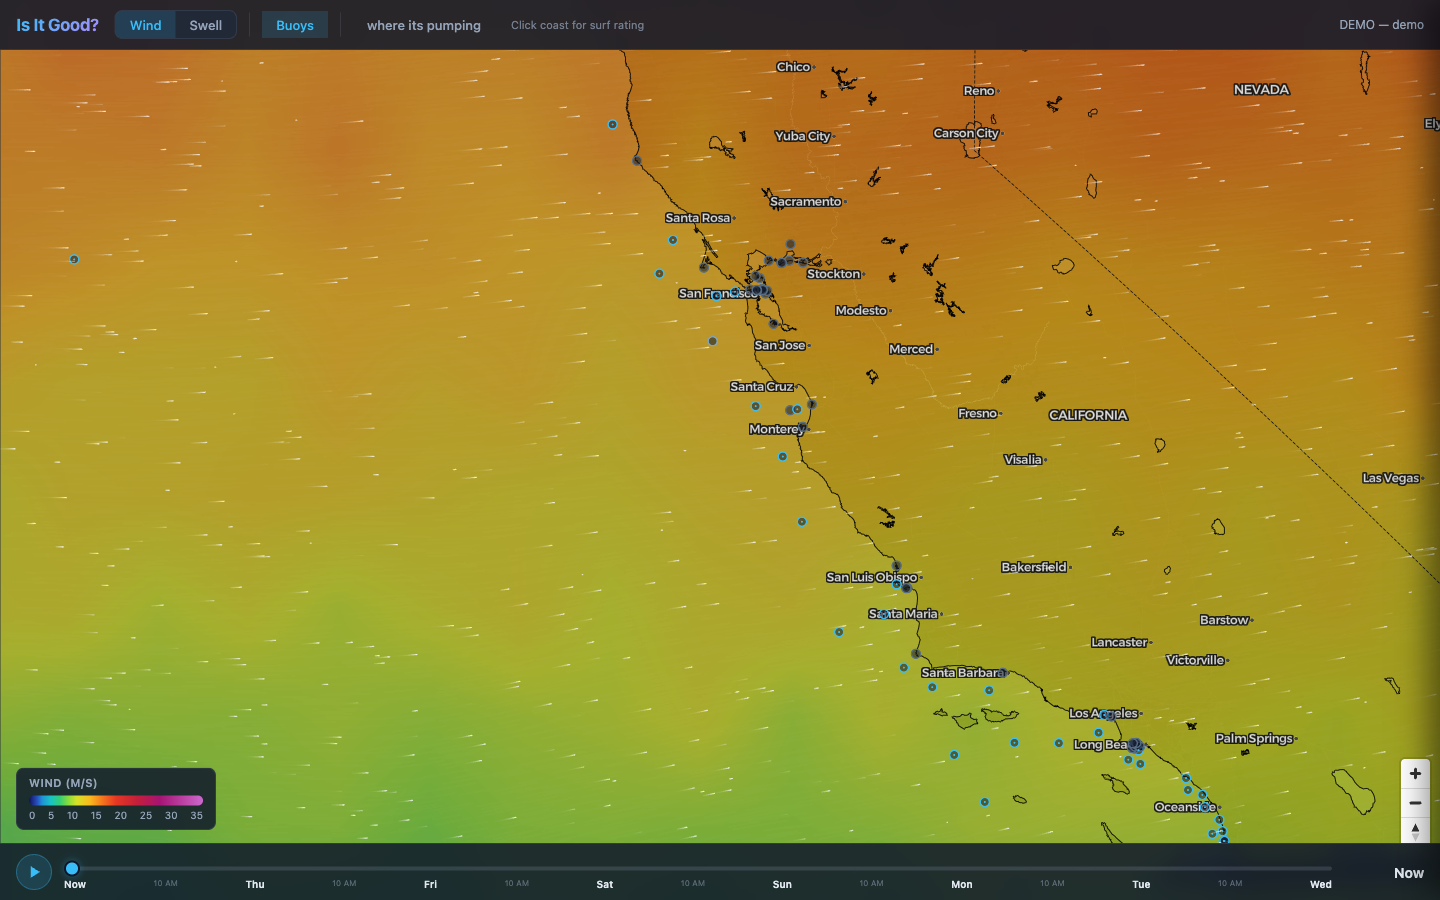
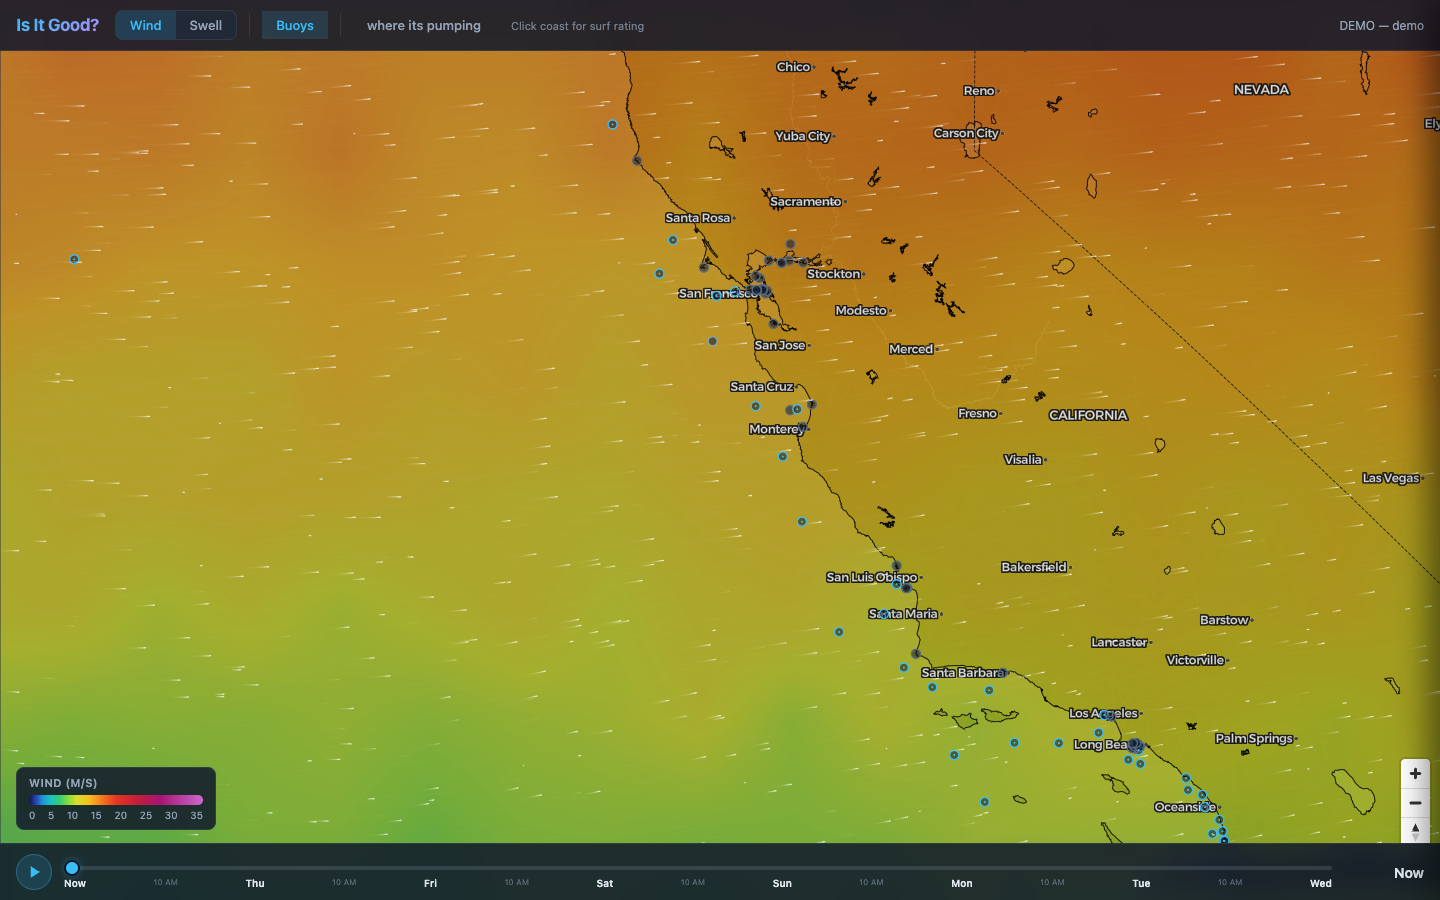
docs: fork report, verify script, and final screenshots
Isolated headless-Chrome verify script (the shared MCP browser was
contested by a concurrent agent), refreshed screenshots after spectrum
label polish, and the full fork report with NDBC research + CORS
findings and caching strategy.

diff --git a/FORK-REPORT.md b/FORK-REPORT.md
@@ -1,0 +1,125 @@
+# Fork report: buoys + swell spectrum (`fork/buoys-spectrum`)
+
+NDBC buoys on the map with live observations, plus a Surfline-style swell
+spectrum (energy by period, with direction) for buoys that report spectral
+data.
+
+## What changed
+
+**Backend (shared parser + 3 endpoints)**
+- `api/_lib/ndbc.mjs` — all NDBC fetch/parse logic in one module, used by both
+  the Vercel functions and local Express. Parses stdmet (`.txt`), spectral
+  summary (`.spec`), raw spectral density (`.data_spec`), per-frequency
+  direction (`.swdir`), `activestations.xml`, and the realtime2 Apache
+  directory index. `'MM'`/`'N/A'`/`999` sentinels → `null` throughout.
+- `api/buoys/stations.mjs` — station list `{id, name, lat, lng, hasWave,
+  hasSpectral}` built by joining `activestations.xml` (names/coords) with the
+  realtime2 directory index (which feeds exist + when they last updated).
+  Filtered to stations whose feed updated in the last 7 days (~900 stations);
+  DART tsunami stations excluded. `Cache-Control: s-maxage=86400,
+  stale-while-revalidate=86400`.
+- `api/buoys/obs.mjs?station=X` — latest stdmet merged with the `.spec`
+  summary. Wave fields ride 30–60 min rows between 10-min met rows, so the
+  parser looks back ≤3 h for the freshest row that actually has them (each
+  group carries its own timestamp). `s-maxage=600`.
+- `api/buoys/spectrum.mjs?station=X` — newest `.data_spec` row merged with
+  `.swdir` (alpha1 mean direction) by frequency bin:
+  `{time, sepFreq, bins: [{freq, period, energy, dir|null}]}`. `s-maxage=1800`.
+- `server.js` — mounts the same `route()`-wrapped handlers at
+  `/api/buoys/*` (they're plain `(req,res)` functions, Express-compatible),
+  and defaults `NDBC_FIXTURE_DIR` to the test fixtures so local dev works
+  offline. Live NDBC is always tried first; fixtures are only the fallback
+  (`NDBC_OFFLINE=1` forces them).
+
+**Frontend**
+- `public/js/buoys.js` — new component. "Buoys" toggle (persists in
+  localStorage; **station list is fetched only the first time it's enabled**,
+  so the default load is untouched). Stations render through one geojson
+  source + two circle layers (no DOM markers), zoom-gated to z ≥ 4: hollow
+  dark-filled rings — bright `#38bdf8` ring + center dot for spectral buoys,
+  dimmer rings for wave-only / met-only stations. Click → buoy panel (reuses
+  the rating-panel shell/visual language): station name, NDBC id, obs age,
+  WVHT/DPD/MWD hero row (ft/s/cardinal + travel arrow), wind/water/air/
+  pressure/avg-period rows, swell-partition table (swell vs wind sea from
+  `.spec`, with the STEEPNESS tag), and for spectral stations an inline-SVG
+  spectrum: log-period x-axis (25s→4s), smoothed filled area, dominant-period
+  marker, swell|wind-sea separation line at NDBC's `sepFreq`, and a
+  direction-arrow ribbon (arrows point where each band is heading, weighted
+  by energy). No chart libraries.
+- `app.js` — map clicks on a buoy no longer fall through to the rating panel
+  (`buoyFeatureAt`); opening one right-hand panel closes the other.
+- `index.html`, `css/style.css` — toggle button, panel markup, `bp-*` styles.
+
+**Tests** — `api/_lib/test/ndbc.test.mjs`: 19 tests over real downloaded
+fixtures (46042 Monterey, 46026 San Francisco) plus synthetic edge cases
+(missing-value merge, lookback expiry, 999 sentinel, stale-station filter,
+station-id validation). `npm run test:api`: **46/46 pass**.
+
+## NDBC / CDIP research findings
+
+- **CORS reality**: `www.ndbc.noaa.gov` (CloudFront + Apache) sends **no
+  `Access-Control-Allow-Origin` header** on `/data/realtime2/*` or
+  `/activestations.xml` (verified via `curl -sI` July 2026). Browser access is
+  impossible; a server-side proxy is mandatory. NDBC's own cache headers are
+  `max-age=600` on realtime2 files, `max-age=60` on activestations.xml.
+- **URL patterns** (all confirmed live):
+  `https://www.ndbc.noaa.gov/data/realtime2/<ID>.{txt,spec,data_spec,swdir,swdir2,swr1,swr2}`
+  and `https://www.ndbc.noaa.gov/activestations.xml` (1351 stations, has
+  lat/lon/name but **no wave-capability flag**). The realtime2 **directory
+  index** turned out to be the best capability source: 944 stations with
+  `.txt`, 251 with `.spec`, 175 with `.data_spec`, and per-file last-modified
+  times that double as a "recently reporting" filter.
+- **Formats**: `.txt`/`.spec` are whitespace tables with `MM` missing values;
+  `.data_spec` rows are `sepFreq` + `energy (freq)` pairs; `.swdir` is
+  `alpha1 (freq)` pairs with `999.0` missing. Rows are newest-first.
+- **CDIP**: not used. CDIP's THREDDS/netCDF JSON access is nicer for full 2D
+  spectra, but most surf-relevant CDIP buoys are cross-listed in NDBC's
+  realtime2 feed (e.g. 46042 *is* spectral there), so NDBC-only keeps v1 to
+  one source, one parser, one proxy. CDIP remains the obvious v2 upgrade for
+  true directional 2D spectra.
+
+## Caching strategy
+
+| Endpoint | CDN (`s-maxage` / `stale-while-revalidate`) | In-process TTL |
+|---|---|---|
+| `/api/buoys/stations` | 86400 / 86400 | 1 h |
+| `/api/buoys/obs` | 600 / 600 | 5 min |
+| `/api/buoys/spectrum` | 1800 / 1800 | 15 min |
+
+Vercel's CDN takes the brunt: one origin invocation per station per TTL
+window worldwide. The small in-memory TTL cache in `ndbc.mjs` additionally
+dedupes within a warm lambda and keeps local dev polite to NDBC.
+
+## Verification (all in `verify/`)
+
+- `buoy-layer-west-coast.png` — layer on over CA, spectral vs non-spectral rings visible
+- `buoy-panel-46042.png` / `buoy-panel-46042-closeup.png` — Monterey panel,
+  **live obs** (8.5 ft @ 16 s WSW that evening) + two-peak spectrum (16 s
+  groundswell + 8 s windsea) with direction ribbon
+- `buoy-panel-46026-partitions.png` — SF buoy with swell-partition table + STEEP tag
+- `buoy-panel-closeup.png` — spectrum detail
+- `buoys-verify.mjs` — repeatable headless-Chrome check (`node
+  verify/buoys-verify.mjs` with the demo server on :3004): asserts no buoy
+  fetches before toggle, layer renders, 46042 panel + spectrum SVG populate,
+  and ocean clicks still open the rating panel. **PASSED**; `npm run
+  test:api` 46/46.
+
+## Risks / notes
+
+- **Function invocation volume**: worst case is `obs`/`spectrum` per buoy
+  click past CDN TTL — negligible at current traffic. The `stations` function
+  fetches two ~300–550 KB NDBC files; at s-maxage=86400 that's a handful of
+  invocations/day.
+- **Directory-index scraping**: `parseRealtimeIndex` regexes an Apache
+  autoindex page; if NOAA restyles it, station flags degrade (stations
+  endpoint would return an empty list — the toggle simply shows nothing —
+  and the parser test fixture pins today's format).
+- **Station-list staleness vs fixtures**: the 7-day recency filter uses the
+  fixture's own timestamps only in offline mode; months-old fixtures would
+  yield an empty offline station list (tests pin `now` explicitly).
+- **`.spec` gaps**: some buoys (46042 at times) report `MM` for the
+  swell/windsea split; the panel degrades gracefully (partition table hides,
+  hero falls back across stdmet→spec fields).
+- **Shared Playwright MCP browser** clashed with a concurrent agent during
+  verification; the committed `buoys-verify.mjs` launches its own Chrome and
+  is the source of truth for the screenshots.
